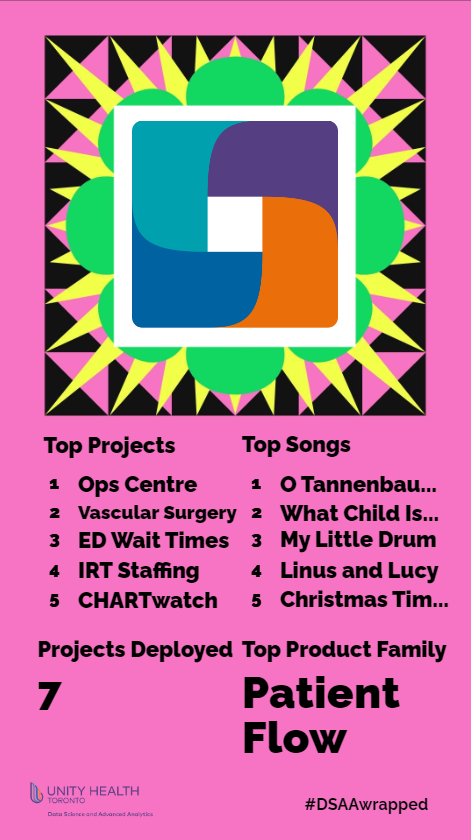
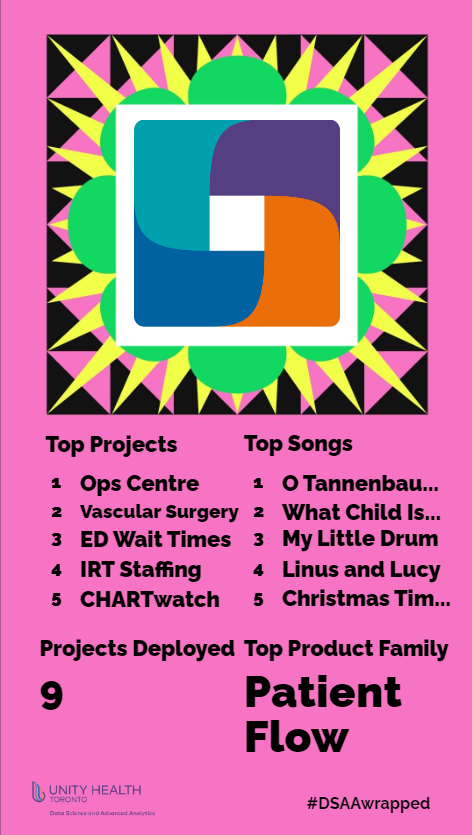
Add Cathy's updates + pizza pics

diff --git a/_posts/2022-12-13-dsaawrapped/dsaawrapped.html b/_posts/2022-12-13-dsaawrapped/dsaawrapped.html
@@ -94,7 +94,7 @@ code span.wa { color: #5e5e5e; font-style: italic; } /* Warning */
   <!--  https://schema.org/Article -->
   <meta property="article:published" itemprop="datePublished" content="2022-12-13"/>
   <meta property="article:created" itemprop="dateCreated" content="2022-12-13"/>
-  <meta name="article:author" content="Chloe Pou-Prom, Meggie Debnath, Derek Beaton"/>
+  <meta name="article:author" content="Chloe Pou-Prom, Meggie Debnath, Derek Beaton, Cathy Zhu"/>
 
   <!--  https://developers.facebook.com/docs/sharing/webmasters#markup -->
   <meta property="og:title" content="DSAA Wrapped"/>
@@ -111,12 +111,12 @@ code span.wa { color: #5e5e5e; font-style: italic; } /* Warning */
   <!--radix_placeholder_rmarkdown_metadata-->
 
   <script type="text/json" id="radix-rmarkdown-metadata">
-  {"type":"list","attributes":{"names":{"type":"character","attributes":{},"value":["title","description","author","date","output","draft"]}},"value":[{"type":"character","attributes":{},"value":["DSAA Wrapped"]},{"type":"character","attributes":{},"value":["Reflecting on 2022.\n"]},{"type":"list","attributes":{},"value":[{"type":"list","attributes":{"names":{"type":"character","attributes":{},"value":["name"]}},"value":[{"type":"character","attributes":{},"value":["Chloe Pou-Prom, Meggie Debnath, Derek Beaton"]}]}]},{"type":"character","attributes":{},"value":["2022-12-13"]},{"type":"list","attributes":{"names":{"type":"character","attributes":{},"value":["distill::distill_article"]}},"value":[{"type":"list","attributes":{"names":{"type":"character","attributes":{},"value":["self_contained"]}},"value":[{"type":"logical","attributes":{},"value":[false]}]}]},{"type":"logical","attributes":{},"value":[true]}]}
+  {"type":"list","attributes":{"names":{"type":"character","attributes":{},"value":["title","description","author","date","output","draft"]}},"value":[{"type":"character","attributes":{},"value":["DSAA Wrapped"]},{"type":"character","attributes":{},"value":["Reflecting on 2022.\n"]},{"type":"list","attributes":{},"value":[{"type":"list","attributes":{"names":{"type":"character","attributes":{},"value":["name"]}},"value":[{"type":"character","attributes":{},"value":["Chloe Pou-Prom, Meggie Debnath, Derek Beaton, Cathy Zhu"]}]}]},{"type":"character","attributes":{},"value":["2022-12-13"]},{"type":"list","attributes":{"names":{"type":"character","attributes":{},"value":["distill::distill_article"]}},"value":[{"type":"list","attributes":{"names":{"type":"character","attributes":{},"value":["self_contained"]}},"value":[{"type":"logical","attributes":{},"value":[false]}]}]},{"type":"logical","attributes":{},"value":[true]}]}
   </script>
   <!--/radix_placeholder_rmarkdown_metadata-->
   
   <script type="text/json" id="radix-resource-manifest">
-  {"type":"character","attributes":{},"value":["dsaa_wrapped.PNG","dsaawrapped_files/anchor-4.2.2/anchor.min.js","dsaawrapped_files/bowser-1.9.3/bowser.min.js","dsaawrapped_files/distill-2.2.21/template.v2.js","dsaawrapped_files/header-attrs-2.14/header-attrs.js","dsaawrapped_files/jquery-3.6.0/jquery-3.6.0.js","dsaawrapped_files/jquery-3.6.0/jquery-3.6.0.min.js","dsaawrapped_files/jquery-3.6.0/jquery-3.6.0.min.map","dsaawrapped_files/popper-2.6.0/popper.min.js","dsaawrapped_files/tippy-6.2.7/tippy-bundle.umd.min.js","dsaawrapped_files/tippy-6.2.7/tippy-light-border.css","dsaawrapped_files/tippy-6.2.7/tippy.css","dsaawrapped_files/tippy-6.2.7/tippy.umd.min.js","dsaawrapped_files/webcomponents-2.0.0/webcomponents.js"]}
+  {"type":"character","attributes":{},"value":["dsaa_wrapped.PNG","dsaawrapped_files/anchor-4.2.2/anchor.min.js","dsaawrapped_files/bowser-1.9.3/bowser.min.js","dsaawrapped_files/distill-2.2.21/template.v2.js","dsaawrapped_files/header-attrs-2.14/header-attrs.js","dsaawrapped_files/jquery-3.6.0/jquery-3.6.0.js","dsaawrapped_files/jquery-3.6.0/jquery-3.6.0.min.js","dsaawrapped_files/jquery-3.6.0/jquery-3.6.0.min.map","dsaawrapped_files/popper-2.6.0/popper.min.js","dsaawrapped_files/tippy-6.2.7/tippy-bundle.umd.min.js","dsaawrapped_files/tippy-6.2.7/tippy-light-border.css","dsaawrapped_files/tippy-6.2.7/tippy.css","dsaawrapped_files/tippy-6.2.7/tippy.umd.min.js","dsaawrapped_files/webcomponents-2.0.0/webcomponents.js","pizza_kayla.jpg","pizza_meggie.jpg"]}
   </script>
   <!--radix_placeholder_navigation_in_header-->
   <!--/radix_placeholder_navigation_in_header-->
@@ -1458,7 +1458,7 @@ code span.wa { color: #5e5e5e; font-style: italic; } /* Warning */
 <!--radix_placeholder_front_matter-->
 
 <script id="distill-front-matter" type="text/json">
-{"title":"DSAA Wrapped","description":"Reflecting on 2022.","authors":[{"author":"Chloe Pou-Prom, Meggie Debnath, Derek Beaton","authorURL":"#","affiliation":"&nbsp;","affiliationURL":"#","orcidID":""}],"publishedDate":"2022-12-13T00:00:00.000-05:00","citationText":"Beaton, 2022"}
+{"title":"DSAA Wrapped","description":"Reflecting on 2022.","authors":[{"author":"Chloe Pou-Prom, Meggie Debnath, Derek Beaton, Cathy Zhu","authorURL":"#","affiliation":"&nbsp;","affiliationURL":"#","orcidID":""}],"publishedDate":"2022-12-13T00:00:00.000-05:00","citationText":"Zhu, 2022"}
 </script>
 
 <!--/radix_placeholder_front_matter-->
@@ -1475,7 +1475,7 @@ code span.wa { color: #5e5e5e; font-style: italic; } /* Warning */
 </div>
 
 <div class="d-byline">
-  Chloe Pou-Prom, Meggie Debnath, Derek Beaton  
+  Chloe Pou-Prom, Meggie Debnath, Derek Beaton, Cathy Zhu  
   
 <br/>2022-12-13
 </div>
@@ -1491,7 +1491,7 @@ code span.wa { color: #5e5e5e; font-style: italic; } /* Warning */
 <li><p>Total # of projects deployed: 9</p></li>
 <li><p>Most viewed project: Ops Centre</p>
 <ul>
-<li>The Ops Centre project is…. [TODO: add Ops Centre description]</li>
+<li>The Ops Centre project provides a clear picture of patient flow within the hospital. It consists of multiple data tiles that reflect real-time data in the areas of occupancy, upcoming discharges, planned admissions, bed cleaning, portering, and other elements essential to providing a full-picture of patient flow.</li>
 </ul></li>
 <li><p>Project with the most team members whose names start with <em>M</em>: Hemodialysis</p>
 <ul>
@@ -1499,24 +1499,29 @@ code span.wa { color: #5e5e5e; font-style: italic; } /* Warning */
 </ul></li>
 </ul>
 <h1 id="product-families">Product families</h1>
-<p>2022 was the year of <em>product families</em>.</p>
+<p>2022 was the year of <em>product families</em>.<a href="#fn2" class="footnote-ref" id="fnref2" role="doc-noteref"><sup>2</sup></a></p>
 <p><img src="https://slack-imgs.com/?c=1&amp;o1=ro&amp;url=https%3A%2F%2Fimages.squarespace-cdn.com%2Fcontent%2Fv1%2F58b3cae5d1758e0132a008c6%2F1582078446179-VU0VAYNPOV4P3JIBKNIY%2FIt%2527s%2BAbout%2BFamily%2BLogo%2B1500.png%3Fformat%3D1000w" /></p>
-<p>What’s a product family?</p>
-<blockquote>
-<p>A product family is….</p>
-</blockquote>
+<p>Whoa, wait. What exactly is a product family?</p>
+<ul>
+<li><p><strong>Product</strong> at DSAA is a <em>platform, application, system, or report</em> that is created to meet patient, clinician, or hospital operational needs.</p></li>
+<li><p><strong>Product family</strong> (roughly comparable to a product line) is a group of related products that are developed and maintained by a single cross-functional team at DSAA.</p></li>
+<li><p>We adopted this custom framework in order to allow staff to work effectively within persistent teams and to leverage resources across products the best we can. The products under each product family are related by common product value and/or shared domain expertise requirement.</p></li>
+</ul>
 <p>Some product family stats!</p>
 <ul>
 <li><p>Number of product families: 6</p></li>
-<li><p>Product family with the most projects: Workforce Optimization</p></li>
+<li><p>Product family with the most projects: The <em>Patient Flow</em> product family <a href="#fn3" class="footnote-ref" id="fnref3" role="doc-noteref"><sup>3</sup></a></p>
+<ul>
+<li>The <em>Patient Flow</em> product family aims to make the patients journey though the hospital as safe and comfortable as possible without compromising care. The <em>Ops Centre</em> is an example of a project that is part of this family.</li>
+</ul></li>
 </ul>
 <h1 id="dsaa-and-improvement">DSAA and improvement</h1>
 <p>2022 was a year where we focused on improving existing operations.</p>
 <ul>
 <li><p># of sprint improvement weeks: 3</p>
 <ul>
-<li><p>The sprint improvement week is one full week dedicated to DSAA process improvement work in the areas of data infrastructure, source system optimization, DevOps, data governance, databases, analytics and project management processes, and more! The DSAA team works together to clear a backlog of tasks, and then we share our accomplishments through demos at the end of the week.</p></li>
-<li><p>Some notable achievements from past sprint improvement weeks are: our very own DSAA handbook, maintenance and update of internall-developed packages, experimenting with containers!</p></li>
+<li><p>The sprint improvement week is a full week dedicated to DSAA process improvement work in the areas of data infrastructure, source system optimization, DevOps, data governance, databases, analytics and project management processes, and more! The DSAA team works together to clear a backlog of tasks, and then we share our accomplishments through demos at the end of the week.</p></li>
+<li><p>Some notable achievements from past sprint improvement weeks are: our very own DSAA handbook, maintenance and update of internally-developed packages, and experimenting with containers!</p></li>
 </ul></li>
 <li><p># of blog posts: 5</p>
 <ul>
@@ -1524,12 +1529,15 @@ code span.wa { color: #5e5e5e; font-style: italic; } /* Warning */
 </ul></li>
 <li><p># of journal club sessions lead by the Advanced Analytics team: at least 16</p>
 <ul>
-<li>We covered the following topics: <a href="https://github.com/LKS-CHART/AA_journal_club/tree/main/2022_01_Ethics_Bias_Inclusion">AI ethics, equity, &amp; inclusion</a>, anomaly detection<a href="#fn2" class="footnote-ref" id="fnref2" role="doc-noteref"><sup>2</sup></a>, survival analysis, Canadian healthcare.</li>
+<li>We covered the following topics: <a href="https://github.com/LKS-CHART/AA_journal_club/tree/main/2022_01_Ethics_Bias_Inclusion">AI ethics, equity, &amp; inclusion</a>, anomaly detection<a href="#fn4" class="footnote-ref" id="fnref4" role="doc-noteref"><sup>4</sup></a>, survival analysis, Canadian healthcare.</li>
 </ul></li>
-<li><p># of “sheets” created: 3</p></li>
+<li><p># of “sheets” created: 3<a href="#fn5" class="footnote-ref" id="fnref5" role="doc-noteref"><sup>5</sup></a></p>
+<ul>
+<li>Templates! Templates! Templates! We worked on templates for: <a href="https://arxiv.org/abs/1803.09010">Datasheet</a>, <a href="https://aifs360.mybluemix.net/examples">Factsheet</a>, and <a href="https://vetiver.rstudio.com/learn-more/model-card.html">Models <del>card</del> sheet</a>.</li>
+</ul></li>
 <li><p># of Advanced Analytics mini-demos: 8</p>
 <ul>
-<li>Mini-demos are lead by a different Advanced Analytics team member….. [TODO: Add link to Derek’s funneljoin here]</li>
+<li>Mini-demos are lead by a different Advanced Analytics team member and include (you guessed it) a mini-demo!! Usually, one of the team members will try out a cool new package or talk about a fun/interesting/challenging problem they ran into. For example, we had a mini-demo on the <a href="https://lks-chart.github.io/blog/posts/2022-08-12-putting-the-fun-in-funneljoin/">funneljoin package</a>.</li>
 </ul></li>
 </ul>
 <h1 id="dsaas-social-committee">DSAA’s social committee</h1>
@@ -1537,28 +1545,45 @@ code span.wa { color: #5e5e5e; font-style: italic; } /* Warning */
 <ul>
 <li><p># of steps completed during the Step Challenge: 1,983,000</p>
 <ul>
-<li>The Step Challenge was 1-week challenge in May where team members were encouraged to get as many steps in as possible!</li>
+<li>The Step Challenge was 1-week challenge in May where team members were encouraged to get as many steps in as possible! The max # of daily steps was 32,998 and the min # of daily steps was 246.</li>
 </ul></li>
 <li><p># of “wizard” classes: 3</p>
 <ul>
-<li><p>Wizard classes are DSAA-lead classes to learn something fun. This year we learned, how to bake puff pastries, how to play euchre and how to make pizza.</p></li>
+<li><p>Wizard classes are DSAA-lead classes to learn something fun. This year we learned how to bake puff pastries, how to play euchre and how to make pizza.</p></li>
 <li><p>Speaking of pizza….</p></li>
 </ul></li>
-<li><p># of pizzas made by DSAA team members: <span class="math inline">\(\infty\)</span></p></li>
+<li><p># of pizzas made by DSAA team members: <span class="math inline">\(\infty\)</span></p>
+<ul>
+<li>Pizza lesson night was very popular!!! Check out some of delicious pizzas that team members made:</li>
+</ul></li>
 </ul>
-<p>[TODO: add pics of pizza here???]</p>
+<p><img src="pizza_kayla.jpg" /></p>
+<p><img src="pizza_meggie.jpg" /></p>
 <ul>
 <li><p>Most requested album: The Charlie Brown Christmas soundtrack</p>
 <ul>
-<li>During the year, many of our team members would hop on a Zoom call, play some music, and work together. The most played album was the <a href="link">Charlie Brown Christmas soundtrack</a>, very closely followed by <a href="link">lo-fi chill hip hop</a>.</li>
+<li>During the year, many of our team members would hop on a Zoom call, play some music, and work together. The most played album was the <a href="https://open.spotify.com/album/2XnNY3GEkbWHor5kyvXLu4?si=d6403b3e25044832">Charlie Brown Christmas soundtrack</a>, very closely followed by <a href="https://open.spotify.com/playlist/0vvXsWCC9xrXsKd4FyS8kM?si=d7adae6166e04ef2">lo-fi chill hip hop</a>.</li>
 </ul></li>
+</ul>
+<h1 id="and-thats-a-wrap">… and that’s a wrap!</h1>
+<p>2022 was a great year and we’re looking forward to 2023.</p>
+<p>Some things you can expect in the new year:</p>
+<ul>
+<li><p>More blog posts!!!!!!!!<a href="#fn6" class="footnote-ref" id="fnref6" role="doc-noteref"><sup>6</sup></a></p></li>
+<li><p>More pizza!</p></li>
+<li><p>More journal club sessions. We’re looking forward to reading up on NLP and timeseries!</p></li>
+<li><p>More steps!</p></li>
 </ul>
 <div class="sourceCode" id="cb1"><pre class="sourceCode r distill-force-highlighting-css"><code class="sourceCode r"></code></pre></div>
 <section class="footnotes" role="doc-endnotes">
 <hr />
 <ol>
 <li id="fn1" role="doc-endnote"><p>We surveyed the members on DSAA and found that the most listened music genre is <em>Pop</em>, followed by various interesting variations of <em>Indie</em> (indie pop, indie soul, indie Québécois).<a href="#fnref1" class="footnote-back" role="doc-backlink">↩</a></p></li>
-<li id="fn2" role="doc-endnote"><p>blog post coming soon! :-)<a href="#fnref2" class="footnote-back" role="doc-backlink">↩</a></p></li>
+<li id="fn2" role="doc-endnote"><p>Blog post coming soon!! :fingers_crossed:<a href="#fnref2" class="footnote-back" role="doc-backlink">↩</a></p></li>
+<li id="fn3" role="doc-endnote"><p>Fun fact: The <em>Patient Flow</em> product family is also the product family with the most Fast &amp; Furious memes.<a href="#fnref3" class="footnote-back" role="doc-backlink">↩</a></p></li>
+<li id="fn4" role="doc-endnote"><p>blog post coming soon! :-)<a href="#fnref4" class="footnote-back" role="doc-backlink">↩</a></p></li>
+<li id="fn5" role="doc-endnote"><p>Blog post coming soon!!! :prayer_hands:<a href="#fnref5" class="footnote-back" role="doc-backlink">↩</a></p></li>
+<li id="fn6" role="doc-endnote"><p>We promised a few in this blog post…<a href="#fnref6" class="footnote-back" role="doc-backlink">↩</a></p></li>
 </ol>
 </section>
 <!--radix_placeholder_article_footer-->
